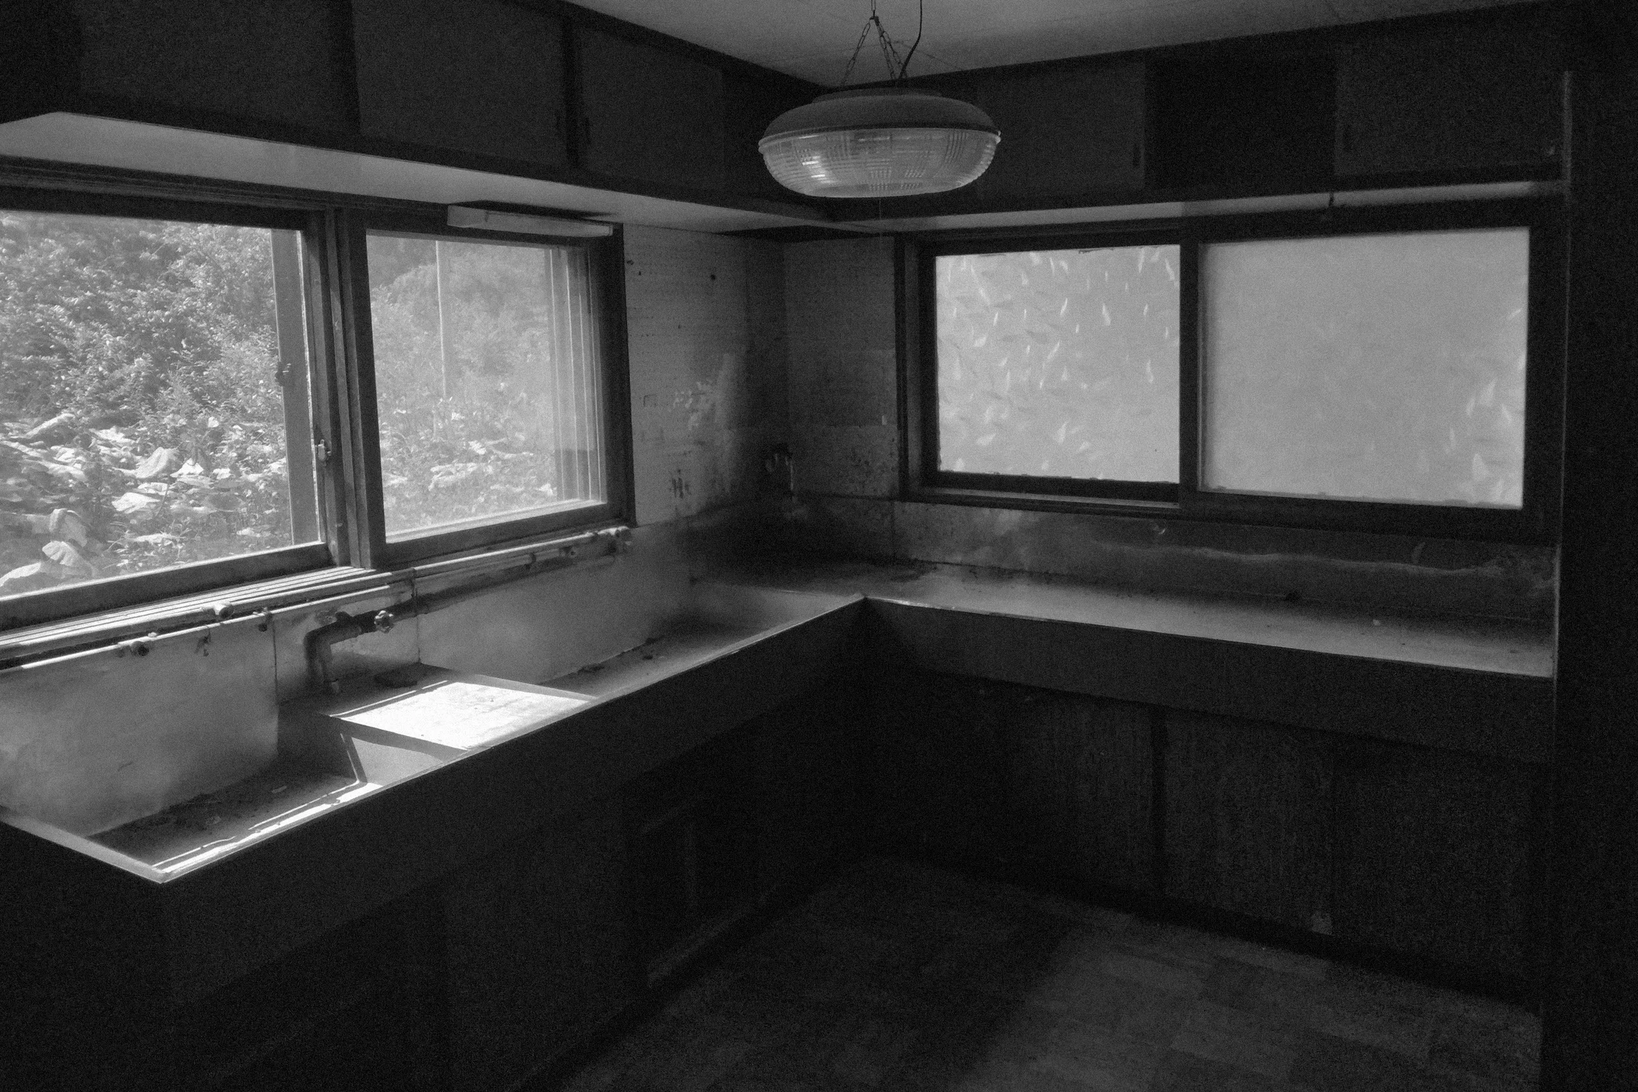
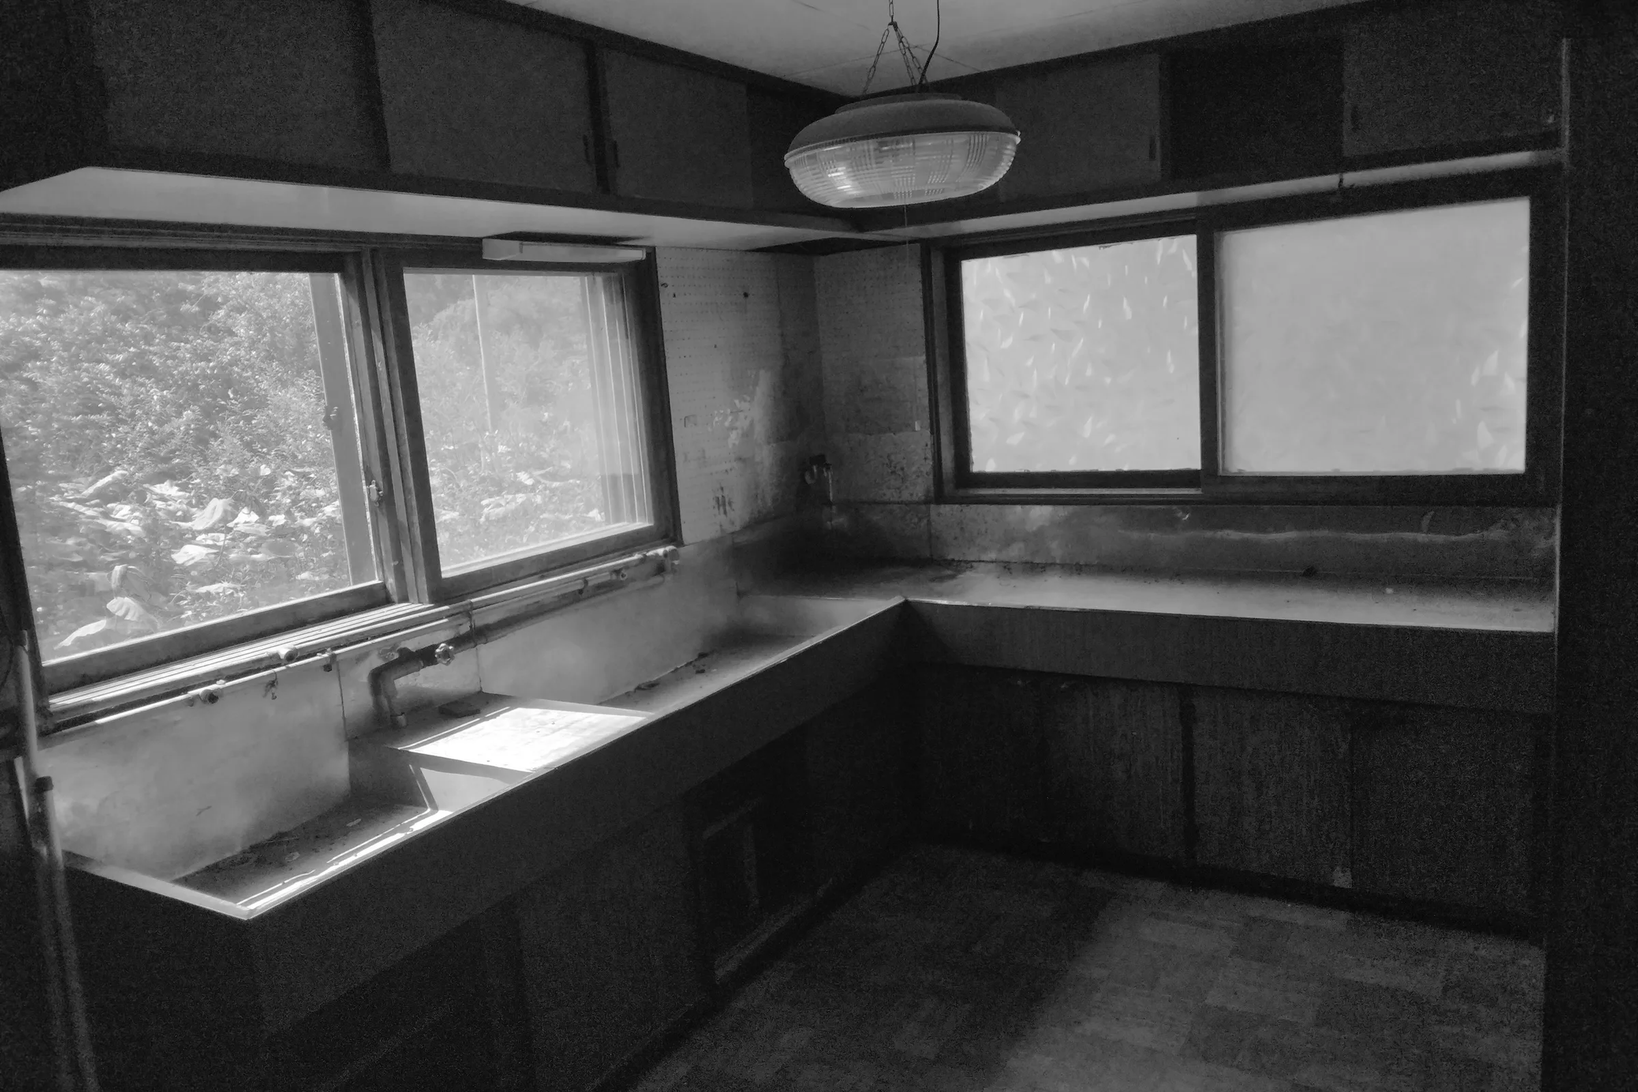
仮公開の更新（Consulting・Design の考え方の図を別の形に／Design の強みを1本の線に／キッチンの Before を差し替え）

diff --git a/design/index.html b/design/index.html
@@ -29,9 +29,9 @@
 <link rel="stylesheet" href="https://fonts.googleapis.com/css2?family=Noto+Sans+JP:wght@300;400;500&family=Noto+Serif+JP:wght@400&family=Cormorant+Garamond:ital,wght@0,500;0,600;1,400;1,500&family=Jost:wght@200;300;400&family=EB+Garamond:wght@500&family=Murecho:wght@400&display=swap">
 
 <!-- デザイン：トップページと共通の style.css ＋ 下層ページ用の sub.css ＋ UBAKU Letter の札 -->
-<link rel="stylesheet" href="../assets/css/style.css?v=202610252235">
-<link rel="stylesheet" href="../assets/css/sub.css?v=202610252235">
-<link rel="stylesheet" href="../assets/css/letter.css?v=202610252235">
+<link rel="stylesheet" href="../assets/css/style.css?v=202610252246">
+<link rel="stylesheet" href="../assets/css/sub.css?v=202610252246">
+<link rel="stylesheet" href="../assets/css/letter.css?v=202610252246">
 
 <!-- Googleにページの内容を伝えるデータ（このページで受けている仕事） -->
 <script type="application/ld+json">
@@ -124,31 +124,16 @@
       </div>
       <div class="approach js-reveal">
         <p class="concept-catch">壊して新しくするより、<br><em class="hl">あるものを、生かす。</em></p>
-        <div class="tomoe tomoe--sub">
-          <svg viewBox="110 20 680 700" role="img" aria-labelledby="dt-title">
-            <title id="dt-title">空間・土地・ブランドの3つの円が重なり、真ん中に「編み直す」がある図</title>
-            <defs>
-              <clipPath id="dt-top"><circle cx="450" cy="255" r="215"/></clipPath>
-              <clipPath id="dt-br"><circle cx="565" cy="455" r="215"/></clipPath>
-              <clipPath id="dt-bl"><circle cx="335" cy="455" r="215"/></clipPath>
-            </defs>
-            <g class="shapes">
-              <circle class="fill-top" cx="450" cy="255" r="215"/>
-              <circle class="fill-br" cx="565" cy="455" r="215"/>
-              <circle class="fill-bl" cx="335" cy="455" r="215"/>
-              <g clip-path="url(#dt-bl)"><circle class="fill-br" cx="565" cy="455" r="215"/></g>
-              <g clip-path="url(#dt-br)"><circle class="fill-top" cx="450" cy="255" r="215"/></g>
-              <g clip-path="url(#dt-br)"><circle class="gap" cx="450" cy="255" r="219"/></g>
-              <g clip-path="url(#dt-bl)"><circle class="gap" cx="565" cy="455" r="219"/></g>
-              <g clip-path="url(#dt-top)"><circle class="gap" cx="335" cy="455" r="219"/></g>
-              <g clip-path="url(#dt-top)"><g clip-path="url(#dt-br)"><g clip-path="url(#dt-bl)">
-                <rect class="fill-center" x="100" y="0" width="700" height="760"/>
-              </g></g></g>
-            </g>
-            <g class="lbl lbl-top"><text class="lbl-en" x="450" y="172">[Space]</text><text class="lbl-jp" x="450" y="212">空間</text></g>
-            <g class="lbl lbl-bl"><text class="lbl-en" x="268" y="482">[Local]</text><text class="lbl-jp" x="268" y="522">土地</text></g>
-            <g class="lbl lbl-br"><text class="lbl-en" x="632" y="482">[Brand]</text><text class="lbl-jp" x="632" y="522">ブランド</text></g>
-            <g class="lbl lbl-center"><text class="lbl-en" x="450" y="374">[Design]</text><text class="lbl-jp lbl-jp--center" x="450" y="414">編み直す</text></g>
+        <div class="sub-diagram">
+          <!-- 考え方の図（2026-10-25 試作 D2 に決定）：「土地」「空間」「ブランド」を少しずつずらして重ねた3枚の層。下から積み上げる順番も伝える。トップの3つの円とは別の形 -->
+          <svg viewBox="0 0 440 260" role="img" aria-labelledby="dt-title">
+            <title id="dt-title">土地・空間・ブランドの3つの層が、少しずつずれて重なる図</title>
+            <rect class="draw" pathLength="1" x="60" y="140" width="220" height="90" fill="#fff" stroke="#C9CDCB" stroke-width="1.2"/>
+            <rect class="draw draw--2" pathLength="1" x="110" y="95" width="220" height="90" fill="#fff" stroke="color-mix(in srgb, var(--accent-hl) 45%, #fff)" stroke-width="1.2"/>
+            <rect class="draw draw--late" pathLength="1" x="160" y="50" width="220" height="90" fill="#fff" stroke="var(--accent-hl)" stroke-width="2"/>
+            <text class="d-en" x="72" y="222">[Local] 土地</text>
+            <text class="d-en" x="122" y="177">[Space] 空間</text>
+            <text class="d-en d-accent d-fade" x="172" y="132">[Brand] ブランド</text>
           </svg>
         </div>
         <p class="body">古い建物にも、まちの小さなお店にも、そこにしかない時間の厚みがあります。UBAKU Designは、その良さを残しながら、いまの使い方に合わせて編み直します。改修では建物を、ブランディングでは名前や佇まいを。コンセプトづくりから仕上がりまで伴走します。</p>
@@ -159,21 +144,13 @@
         <h2 class="display">Strength</h2>
         <span class="aside">UBAKU Designにできること</span>
       </div>
-      <div class="values-grid">
-        <div class="value">
-          <p class="value-head"><span class="en label">01</span><span class="en-sub">Through Users' Eyes.</span></p>
-          <h3>使う人の目線で考える。</h3>
-          <p class="body">自分たちで宿を運営しているからこそ、泊まる人・働く人・掃除をする人まで、使う人の目線でデザインを考えます。</p>
-        </div>
-        <div class="value">
-          <p class="value-head"><span class="en label">02</span><span class="en-sub">Numbers, Too.</span></p>
-          <h3>事業の数字まで見る。</h3>
-          <p class="body">見た目だけでなく、かける費用と、その後の収支まで。不動産の実務の目線で、無理のない改修やブランドづくりを一緒に決めます。</p>
-        </div>
-        <div class="value">
-          <p class="value-head"><span class="en label">03</span><span class="en-sub">One World.</span></p>
-          <h3>ひとつの世界観で、つくり切る。</h3>
-          <p class="body">建物の改修から、ビジュアルデザイン、館内の案内、Webデザインまで。ばらばらに頼むと揃いにくいものを、同じ世界観で一貫してつくります。</p>
+      <!-- 強み（2026-10-25 試作 S-D に決定）：仕事の範囲を1本の線でつなぎ「ひとつの世界観でつくれる」を見せる。残りの2つは短く添える -->
+      <div class="reach js-reveal">
+        <ol class="reach-line"><li>建物</li><li>内装</li><li>家具</li><li>サイン</li><li>印刷物</li><li>Web</li></ol>
+        <p class="reach-cap">建物から Web まで、<br class="sp-br">ひとつの世界観で。</p>
+        <div class="reach-notes">
+          <div><b>使う人の目線で</b>自分たちで宿を運営しているから、泊まる人・働く人・掃除をする人まで考えます。</div>
+          <div><b>数字まで見る</b>かける費用と、その後の収支まで。不動産の実務の目線で、無理のない改修とブランドづくりを。</div>
         </div>
       </div>
     </div>
@@ -593,9 +570,9 @@
 </section>
 
 <script src="https://web3forms.com/client/script.js" async defer></script>
-<script src="../assets/js/main.js?v=202610252235"></script>
+<script src="../assets/js/main.js?v=202610252246"></script>
 <!-- UBAKU Letter：右下の札だけ（data-band="off" でページの中の購読欄は入れない） -->
-<script src="../assets/js/letter.js?v=202610252235" data-privacy="../privacy/" data-band="off"></script>
+<script src="../assets/js/letter.js?v=202610252246" data-privacy="../privacy/" data-band="off"></script>
 
 <!-- ページの一番上へ戻るボタン（矢印だけ。スクロールすると右下の UBAKU Letter の札の上に出る。2026-10-25） -->
 <a class="to-top" href="#" aria-label="ページの一番上へ"><svg viewBox="0 0 24 24" aria-hidden="true"><path d="M12 19V5M5.5 11.5 12 5l6.5 6.5"/></svg></a>

diff --git a/consulting/index.html b/consulting/index.html
@@ -29,9 +29,9 @@
 <link rel="stylesheet" href="https://fonts.googleapis.com/css2?family=Noto+Sans+JP:wght@300;400;500&family=Noto+Serif+JP:wght@400&family=Cormorant+Garamond:ital,wght@0,500;0,600;1,400;1,500&family=Jost:wght@200;300;400&family=EB+Garamond:wght@500&family=Murecho:wght@400&display=swap">
 
 <!-- デザイン：トップページと共通の style.css ＋ 下層ページ用の sub.css ＋ UBAKU Letter の札 -->
-<link rel="stylesheet" href="../assets/css/style.css?v=202610252235">
-<link rel="stylesheet" href="../assets/css/sub.css?v=202610252235">
-<link rel="stylesheet" href="../assets/css/letter.css?v=202610252235">
+<link rel="stylesheet" href="../assets/css/style.css?v=202610252246">
+<link rel="stylesheet" href="../assets/css/sub.css?v=202610252246">
+<link rel="stylesheet" href="../assets/css/letter.css?v=202610252246">
 
 <!-- Googleにページの内容を伝えるデータ（このページで受けている仕事） -->
 <script type="application/ld+json">
@@ -116,31 +116,16 @@
       </div>
       <div class="approach js-reveal">
         <p class="concept-catch">東京の実務と、地方の現場を、<br><em class="hl">ひとつの事業に。</em></p>
-        <div class="tomoe tomoe--sub">
-          <svg viewBox="110 20 680 700" role="img" aria-labelledby="ct-title">
-            <title id="ct-title">東京の実務・地方の現場・自分たちの宿の3つの円が重なり、真ん中に「ひとつの事業」がある図</title>
-            <defs>
-              <clipPath id="ct-top"><circle cx="450" cy="255" r="215"/></clipPath>
-              <clipPath id="ct-br"><circle cx="565" cy="455" r="215"/></clipPath>
-              <clipPath id="ct-bl"><circle cx="335" cy="455" r="215"/></clipPath>
-            </defs>
-            <g class="shapes">
-              <circle class="fill-top" cx="450" cy="255" r="215"/>
-              <circle class="fill-br" cx="565" cy="455" r="215"/>
-              <circle class="fill-bl" cx="335" cy="455" r="215"/>
-              <g clip-path="url(#ct-bl)"><circle class="fill-br" cx="565" cy="455" r="215"/></g>
-              <g clip-path="url(#ct-br)"><circle class="fill-top" cx="450" cy="255" r="215"/></g>
-              <g clip-path="url(#ct-br)"><circle class="gap" cx="450" cy="255" r="219"/></g>
-              <g clip-path="url(#ct-bl)"><circle class="gap" cx="565" cy="455" r="219"/></g>
-              <g clip-path="url(#ct-top)"><circle class="gap" cx="335" cy="455" r="219"/></g>
-              <g clip-path="url(#ct-top)"><g clip-path="url(#ct-br)"><g clip-path="url(#ct-bl)">
-                <rect class="fill-center" x="100" y="0" width="700" height="760"/>
-              </g></g></g>
-            </g>
-            <g class="lbl lbl-top"><text class="lbl-en" x="450" y="172">[Tokyo]</text><text class="lbl-jp" x="450" y="212">東京の実務</text></g>
-            <g class="lbl lbl-bl"><text class="lbl-en" x="268" y="482">[Local]</text><text class="lbl-jp" x="268" y="522">地方の現場</text></g>
-            <g class="lbl lbl-br"><text class="lbl-en" x="632" y="482">[Stay]</text><text class="lbl-jp" x="632" y="522">自分たちの宿</text></g>
-            <g class="lbl lbl-center"><text class="lbl-en" x="450" y="374">[Consulting]</text><text class="lbl-jp lbl-jp--center" x="450" y="414">ひとつの事業</text></g>
+        <div class="sub-diagram">
+          <!-- 考え方の図（2026-10-25 試作 C1 に決定）：「東京の実務」と「地方の現場」の2本の線が流れてきて合流し、1本の「事業」になる。トップの3つの円とは別の形 -->
+          <svg viewBox="0 0 440 260" role="img" aria-labelledby="ct-title">
+            <title id="ct-title">東京の実務と地方の現場の2本の線が合流して、ひとつの事業になる図</title>
+            <path class="draw" pathLength="1" d="M20 60 C 150 60, 190 130, 270 130" fill="none" stroke="var(--sub)" stroke-width="1.2"/>
+            <path class="draw" pathLength="1" d="M20 200 C 150 200, 190 130, 270 130" fill="none" stroke="var(--sub)" stroke-width="1.2"/>
+            <path class="draw draw--late" pathLength="1" d="M270 130 L 420 130" fill="none" stroke="var(--accent-hl)" stroke-width="3"/>
+            <text class="d-en" x="20" y="44">[Tokyo]</text><text class="d-jp" x="20" y="84">東京の実務</text>
+            <text class="d-en" x="20" y="184">[Local]</text><text class="d-jp" x="20" y="224">地方の現場</text>
+            <g class="d-fade"><text class="d-en d-accent" x="420" y="112" text-anchor="end">[Consulting]</text><text class="d-jp d-accent" x="420" y="160" text-anchor="end">ひとつの事業</text></g>
           </svg>
         </div>
         <p class="body">東京の大手不動産会社で培った、収益不動産の開発と新規事業の実務。北海道で宿を一から立ち上げ、運営してきた現場の経験。その両方を持つチームとして、事業の組み立てから、かたちになるまで、となりで一緒に考えます。</p>
@@ -445,9 +430,9 @@
 </section>
 
 <script src="https://web3forms.com/client/script.js" async defer></script>
-<script src="../assets/js/main.js?v=202610252235"></script>
+<script src="../assets/js/main.js?v=202610252246"></script>
 <!-- UBAKU Letter：右下の札だけ（data-band="off" でページの中の購読欄は入れない） -->
-<script src="../assets/js/letter.js?v=202610252235" data-privacy="../privacy/" data-band="off"></script>
+<script src="../assets/js/letter.js?v=202610252246" data-privacy="../privacy/" data-band="off"></script>
 
 <!-- ページの一番上へ戻るボタン（矢印だけ。スクロールすると右下の UBAKU Letter の札の上に出る。2026-10-25） -->
 <a class="to-top" href="#" aria-label="ページの一番上へ"><svg viewBox="0 0 24 24" aria-hidden="true"><path d="M12 19V5M5.5 11.5 12 5l6.5 6.5"/></svg></a>

diff --git a/assets/css/sub.css b/assets/css/sub.css
@@ -485,3 +485,28 @@
 .menu-cta .more{margin-left:12px}
 /* スマホ：Before / After の札を小さく（2026-10-25） */
 @media (max-width: 640px){.ba figcaption{left:8px;top:8px;padding:1px 7px;font-size:9px;letter-spacing:.12em}.ba{gap:12px}}
+
+/* ---------- 考え方の図（Consulting＝合流する2本の線、Design＝重なる3つの層。2026-10-25）：画面に入ると線が描かれる ---------- */
+.sub-diagram{max-width:460px;margin:28px 0 8px}
+.sub-diagram svg{display:block;width:100%;height:auto;overflow:visible}
+.sub-diagram .d-en{font-family:var(--f-title);font-weight:300;font-size:11px;letter-spacing:.1em;fill:var(--sub)}
+.sub-diagram .d-jp{font-family:var(--f-heading);font-size:15px;letter-spacing:.06em;fill:var(--ink)}
+.sub-diagram .d-accent{fill:var(--accent-hl)}
+.sub-diagram .draw{stroke-dasharray:1;stroke-dashoffset:1;transition:stroke-dashoffset 1.6s cubic-bezier(.4,0,.2,1)}
+.sub-diagram .draw--2{transition-delay:.3s}
+.sub-diagram .draw--late{transition-delay:.9s}
+.sub-diagram .d-fade{opacity:0;transition:opacity .8s ease 1.6s}
+.is-visible .sub-diagram .draw,.no-js .sub-diagram .draw{stroke-dashoffset:0}
+.is-visible .sub-diagram .d-fade{opacity:1}
+@media (prefers-reduced-motion: reduce){.sub-diagram .draw{stroke-dashoffset:0;transition:none}.sub-diagram .d-fade{opacity:1;transition:none}}
+
+/* ---------- Design の強み：建物から Web までの1本の線（2026-10-25） ---------- */
+.reach{margin-top:8px}
+.reach-line{display:flex;justify-content:space-between;list-style:none;margin:0;padding:0;position:relative;font-size:13px;letter-spacing:.06em;color:var(--ink)}
+.reach-line::before{content:"";position:absolute;left:8%;right:8%;top:6px;height:1px;background:var(--accent-hl)}
+.reach-line li{position:relative;flex:1;padding-top:24px;text-align:center}
+.reach-line li::before{content:"";position:absolute;left:50%;top:0;width:13px;height:13px;margin-left:-6.5px;border-radius:50%;background:#fff;border:1px solid var(--accent-hl)}
+.reach-cap{margin:28px 0 0;text-align:center;font-family:var(--f-heading);font-size:18px;letter-spacing:.1em;color:var(--accent-hl)}
+.reach-notes{display:grid;grid-template-columns:1fr 1fr;gap:24px;margin-top:32px;font-size:13px;line-height:2;color:var(--muted)}
+.reach-notes b{display:block;font-weight:400;font-size:15px;color:var(--ink);margin-bottom:4px}
+@media (max-width: 640px){.reach-line{flex-wrap:wrap;row-gap:18px}.reach-line li{flex:0 0 33.3%}.reach-line::before{display:none}.reach-notes{grid-template-columns:1fr}.reach-cap{font-size:16px}.reach-cap .sp-br{display:inline}}

diff --git a/index.html b/index.html
@@ -32,8 +32,8 @@
 <link rel="stylesheet" href="https://fonts.googleapis.com/css2?family=Noto+Sans+JP:wght@300;400;500&family=Noto+Serif+JP:wght@400&family=Cormorant+Garamond:ital,wght@0,500;0,600;1,400;1,500&family=Jost:ital,wght@0,200;0,300;0,400;1,300&family=EB+Garamond:wght@500&family=Murecho:wght@400&display=swap">
 
 <!-- デザイン（色・フォント・余白はすべてこのファイルで管理） -->
-<link rel="stylesheet" href="assets/css/style.css?v=202610252235">
-<link rel="stylesheet" href="assets/css/letter.css?v=202610252235">   <!-- UBAKU Letter（メルマガ）の購読：右下の札・窓・Journal のあとの購読欄 -->
+<link rel="stylesheet" href="assets/css/style.css?v=202610252246">
+<link rel="stylesheet" href="assets/css/letter.css?v=202610252246">   <!-- UBAKU Letter（メルマガ）の購読：右下の札・窓・Journal のあとの購読欄 -->
 
 <!-- Googleに会社情報を伝えるデータ（構造化データ）
      ロゴ画像と note のURLが決まったら "logo" と sameAs に追加する -->
@@ -444,9 +444,9 @@
 </section>
 
 <script src="https://web3forms.com/client/script.js" async defer></script>
-<script src="assets/js/notes.js?v=202610252235"></script>
-<script src="assets/js/main.js?v=202610252235"></script>
-<script src="assets/js/letter.js?v=202610252235"></script>
+<script src="assets/js/notes.js?v=202610252246"></script>
+<script src="assets/js/main.js?v=202610252246"></script>
+<script src="assets/js/letter.js?v=202610252246"></script>
 
 <!-- ページの一番上へ戻るボタン（矢印だけ。スクロールすると右下の UBAKU Letter の札の上に出る。2026-10-25） -->
 <a class="to-top" href="#" aria-label="ページの一番上へ"><svg viewBox="0 0 24 24" aria-hidden="true"><path d="M12 19V5M5.5 11.5 12 5l6.5 6.5"/></svg></a>

diff --git a/higashikawa/index.html b/higashikawa/index.html
@@ -12,7 +12,7 @@
 <link rel="preconnect" href="https://fonts.googleapis.com">
 <link rel="preconnect" href="https://fonts.gstatic.com" crossorigin>
 <link href="https://fonts.googleapis.com/css2?family=Noto+Sans+JP:wght@200;300;400;500&family=Cormorant+Garamond:ital,wght@0,500;1,500&family=Jost:wght@200;300;400&family=Murecho:wght@400&display=swap" rel="stylesheet">
-<link rel="stylesheet" href="../assets/css/letter.css?v=202610252235">   <!-- UBAKU Letter（メルマガ）の購読：右下の札・窓・ページの中の購読欄（ubaku.jp と共通） -->
+<link rel="stylesheet" href="../assets/css/letter.css?v=202610252246">   <!-- UBAKU Letter（メルマガ）の購読：右下の札・窓・ページの中の購読欄（ubaku.jp と共通） -->
 <link rel="stylesheet" href="village.css">
 </head>
 <body class="locked">
@@ -375,6 +375,6 @@
 
 <script src="village.js"></script>
 <!-- 購読欄は Roadmap のあと（ご連絡の面の前）に入れ、ご連絡の面が見えている間は札を隠す -->
-<script src="../assets/js/letter.js?v=202610252235" data-privacy="../privacy/" data-after="roadmap" data-hide="hello"></script>
+<script src="../assets/js/letter.js?v=202610252246" data-privacy="../privacy/" data-after="roadmap" data-hide="hello"></script>
 </body>
 </html>

diff --git a/privacy/index.html b/privacy/index.html
@@ -29,8 +29,8 @@
 <link rel="stylesheet" href="https://fonts.googleapis.com/css2?family=Noto+Sans+JP:wght@300;400;500&family=Noto+Serif+JP:wght@400&family=Cormorant+Garamond:ital,wght@0,500;0,600;1,400;1,500&family=Jost:wght@200;300;400&family=EB+Garamond:wght@500&family=Murecho:wght@400&display=swap">
 
 <!-- デザイン：トップページと共通の style.css ＋ 下層ページ用の sub.css -->
-<link rel="stylesheet" href="../assets/css/style.css?v=202610252235">
-<link rel="stylesheet" href="../assets/css/sub.css?v=202610252235">
+<link rel="stylesheet" href="../assets/css/style.css?v=202610252246">
+<link rel="stylesheet" href="../assets/css/sub.css?v=202610252246">
 </head>
 <body class="page-privacy">
 
@@ -165,7 +165,7 @@
   </div>
 </section>
 
-<script src="../assets/js/main.js?v=202610252235"></script>
+<script src="../assets/js/main.js?v=202610252246"></script>
 
 <!-- ページの一番上へ戻るボタン（矢印だけ。スクロールすると右下の UBAKU Letter の札の上に出る。2026-10-25） -->
 <a class="to-top" href="#" aria-label="ページの一番上へ"><svg viewBox="0 0 24 24" aria-hidden="true"><path d="M12 19V5M5.5 11.5 12 5l6.5 6.5"/></svg></a>

diff --git a/layouts/index.html b/layouts/index.html
@@ -9,8 +9,8 @@
 <link rel="preconnect" href="https://fonts.googleapis.com">
 <link rel="preconnect" href="https://fonts.gstatic.com" crossorigin>
 <link rel="stylesheet" href="https://fonts.googleapis.com/css2?family=Noto+Sans+JP:wght@300;400;500&family=Noto+Serif+JP:wght@400&family=Cormorant+Garamond:ital,wght@0,500;0,600;1,400;1,500&family=Jost:wght@200;300;400&family=EB+Garamond:wght@500&family=Murecho:wght@400&display=swap">
-<link rel="stylesheet" href="../assets/css/style.css?v=202610252235">
-<link rel="stylesheet" href="../assets/css/sub.css?v=202610252235">
+<link rel="stylesheet" href="../assets/css/style.css?v=202610252246">
+<link rel="stylesheet" href="../assets/css/sub.css?v=202610252246">
 <style>
 /* =========================================================
    Consulting・Design のヒーロー（事業名・見出し・説明の3行）の並べ方の試作（仮公開だけ・本番には出さない）

diff --git a/colors/index.html b/colors/index.html
@@ -9,7 +9,7 @@
 <link rel="preconnect" href="https://fonts.googleapis.com">
 <link rel="preconnect" href="https://fonts.gstatic.com" crossorigin>
 <link rel="stylesheet" href="https://fonts.googleapis.com/css2?family=Noto+Sans+JP:wght@300;400;500&family=Jost:wght@200;300;400&family=Murecho:wght@400&display=swap">
-<link rel="stylesheet" href="../assets/css/style.css?v=202610252235">
+<link rel="stylesheet" href="../assets/css/style.css?v=202610252246">
 <style>
 /* =========================================================
    差し色を選ぶページ（仮公開だけ。本番には出さない）
